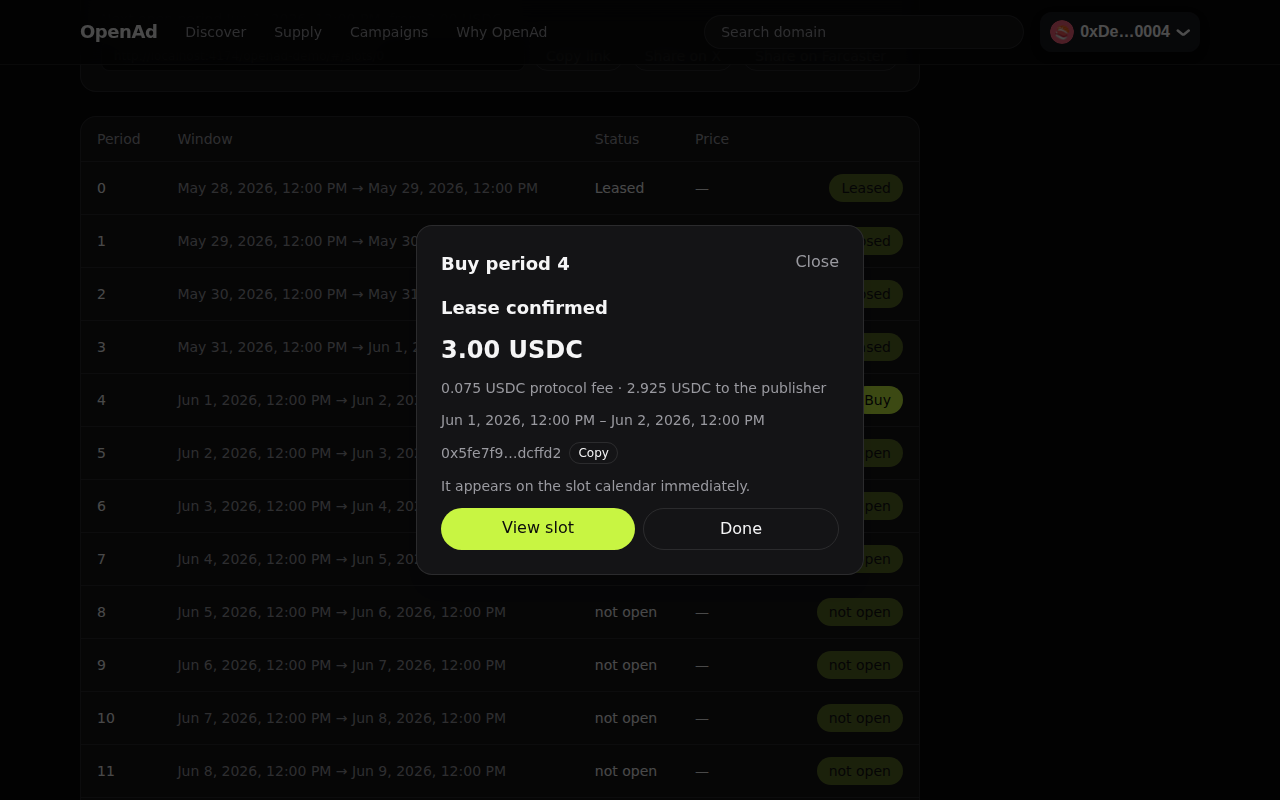
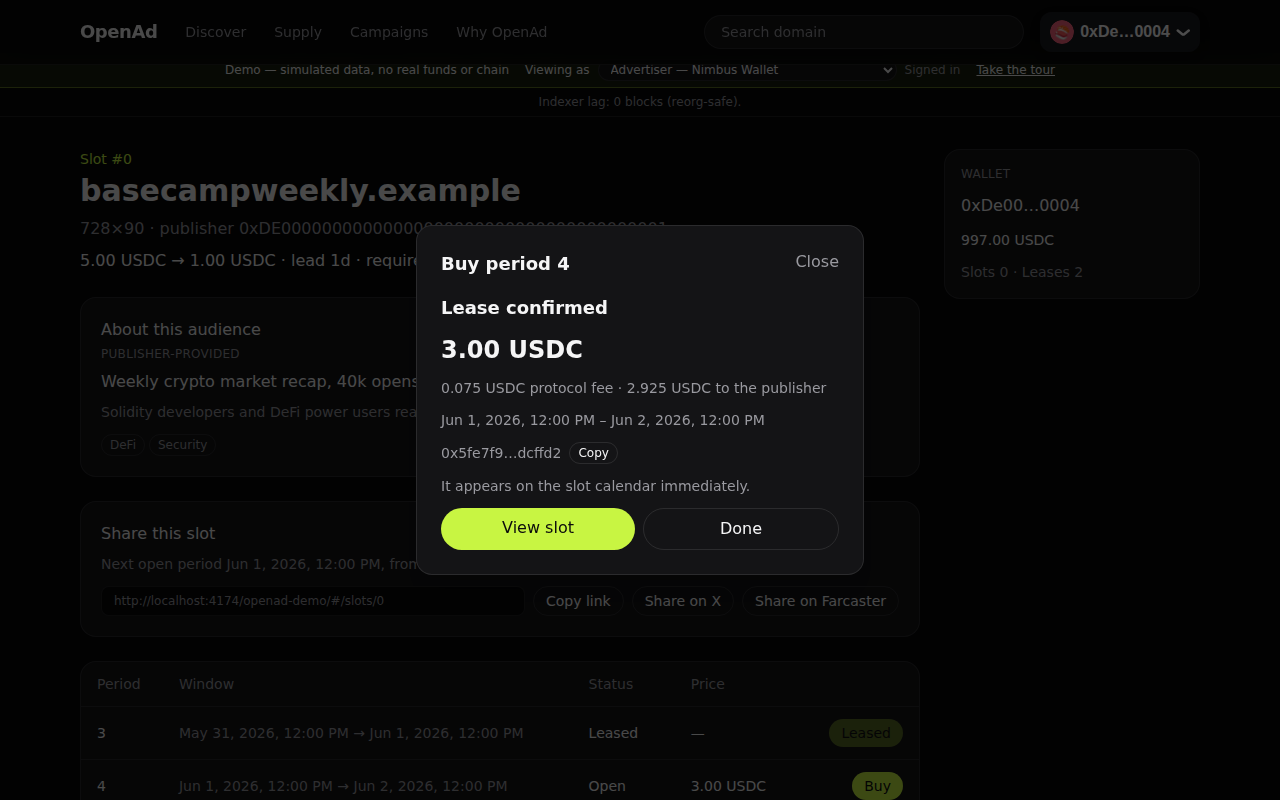
docs(launch): record #17-#19 and finish the post-merge pass
ROADMAP 6.7/6.9 cite #19, #17 and #18; README and the launch checklist
say what shipped; the runbook's migrate grants and teardown loop are
fixed; the GTM launch plan is rebased on launch actions; the capture
script finds rows by index and waits for the balance refetch and the
embed image, and the screenshots are regenerated.

Claude-Session: https://claude.ai/code/session_01Reb6XCAsVKDJU3ey2h3zGZ

diff --git a/web/src/lib/auction.test.ts b/web/src/lib/auction.test.ts
@@ -354,6 +354,12 @@ describe('periodsWindowSize', () => {
     expect(periodsWindowSize(86_400, 3600)).toBe(24);
   });
 
+  it('rounds the period count up, not down, when it does not divide evenly', () => {
+    // 88,200 / 3,600 = 24.5: ceil is 25, floor is 24. The exact-multiple case above (86,400 /
+    // 3,600 = 24.0) can't tell ceil from floor, since both round to the same integer.
+    expect(periodsWindowSize(88_200, 3600)).toBe(25);
+  });
+
   it('caps at 59, one under the list_periods API range limit (step 41)', () => {
     expect(periodsWindowSize(1_000_000, 3600)).toBe(59);
   });

diff --git a/docs/ROADMAP.md b/docs/ROADMAP.md
@@ -224,6 +224,11 @@ protocol contract changes in this phase (anything that would need one is recorde
       other 6.x item is `[x]`. (2) The demo script's talk tracks are listed as "2/5/15-minute",
       not "5-min/15-min" — the 2-minute hallway track already existed going into this step and
       was missing from the original acceptance wording; it is not a new addition here.
+      **PR #19 (2026-09-25):** Discover's state, the slot card's timing copy and the slot page's
+      period window now follow the open-ended calendar (`docs/PROTOCOL.md` §4.1) instead of
+      anchoring to the first period. Before it, every slot read "Ended" one period after its
+      first period ended, and a calendar older than 15 periods showed nothing buyable on the slot
+      page.
 - [x] **6.8 Auth hardening (SIWE binding, nonce/session hygiene).** _Done 2026-09-25._
       Pointers: ADR-0009 (2026-09-25 amendment) · `docs/threat-model.md` T15, T16 ·
       `api/src/openad/{siwe,ratelimit}.py` · `api/src/openad/services/auth.py` ·
@@ -249,7 +254,7 @@ protocol contract changes in this phase (anything that would need one is recorde
       Pointers: `api/src/openad/db/session.py` · `api/src/openad/config.py` ·
       `api/src/openad/services/media.py` · `infra/gcp/services/*.yaml` ·
       `infra/gcp/jobs/migrate.yaml` · `docs/deploy-gcp.md` ("Connection budget", §9) ·
-      ADR-0017 amendment · `docs/threat-model.md` T17 · `scripts/deploy-gcp.sh`.
+      ADR-0017 amendment · `docs/threat-model.md` T17, T18, T19 · `scripts/deploy-gcp.sh`.
       Acceptance: `Database` sizes its pool from settings (`OPENAD_DB_POOL_SIZE`,
       `OPENAD_DB_MAX_OVERFLOW`, `OPENAD_DB_POOL_TIMEOUT`, `OPENAD_DB_POOL_RECYCLE`,
       `pool_pre_ping=True`) at all four call sites (`api`, indexer, settler,
@@ -267,11 +272,15 @@ protocol contract changes in this phase (anything that would need one is recorde
       hop (not just the first URL) re-validated for scheme and, outside dev/test, for a blocked
       hostname (after stripping trailing dots) or an IP literal that is not globally routable or
       is multicast, reserved or IPv6 site-local (including legacy numeric forms and IPv4-mapped
-      IPv6); T17 added; all checks green. Outbound-fetch bounds shipped separately in the
-      outbound-fetch-bounds PR: one overall deadline on media fetches, a per-pass budget for
-      indexer verification, and a domain meta check that releases its DB connection before
-      fetching and is bounded with a per-slot cooldown — recorded as **T18**
-      (`docs/threat-model.md`).
+      IPv6); T17 added; all checks green. Outbound-fetch bounds shipped separately in **PR #17**:
+      one overall deadline on media fetches, a per-pass budget for indexer verification, and both
+      `POST /v1/creatives/{id}/verify` and the domain meta check release their pooled DB
+      connection before fetching, with both fetchers reading raw bytes under their caps
+      (`Accept-Encoding: identity`) and the meta check additionally bounded by a per-slot
+      cooldown — recorded as **T18** (`docs/threat-model.md`). **PR #18** further caps
+      `GET /v1/slots/{id}/periods` at 60 periods per request (a wider window gets a house-style
+      422 `invalid_window`) and reads its leases in one batched query instead of one per period
+      index — recorded as **T19**.
 - [ ] **6.10 Live GCP deployment (user-run).**
       Pointers: `docs/deploy-gcp.md` · `docs/business/launch-checklist.md`.
       Acceptance: a GCP project exists and the runbook (§1–§10) has been followed; the Workload
@@ -308,9 +317,15 @@ blocks a testnet/staging launch. **7.10** (the independent security audit) does 
       clicks (today it reuses the LEASE "not tracked" hint); advertiser CTR over CPC impressions
       only, not diluted by LEASE impressions; a separate "Booked (upcoming)" tile for leases not
       yet started. Pointers: `api/src/openad/services/analytics.py`, `web/src/lib/analytics.ts`.
-- [ ] **7.7 Migration and lint scope.** `compare_metadata` parity doesn't cover server defaults;
-      widen the ruff scope to include `alembic/` (`0002_cpc.py` is unformatted). Pointers:
-      `api/tests/test_migrations.py`, `api/pyproject.toml`.
+- [ ] **7.7 Migration, lint and docs-formatting scope.** `compare_metadata` parity doesn't cover
+      server defaults; widen the ruff scope to include `alembic/` (`0002_cpc.py` is unformatted);
+      CI's `prettier --check` step covers only `web/src/demo`, `e2e/demo`,
+      `web/src/features/marketing` and `web/src/app/routes.tsx`, so the root `format:check`
+      script (all of `web/`, `embed/` and `docs/`) never runs in CI, and `docs/` table alignment
+      already fails at base on `ARCHITECTURE.md` and `docs/threat-model.md`; some code comments
+      cite JIT step numbers (e.g. "step 39", "PLAN step 40") that only the archived plan's
+      step → PR map (`.cursor/jit_history/`) resolves. Pointers: `api/tests/test_migrations.py`,
+      `api/pyproject.toml`, `.github/workflows/ci.yml`, `package.json` (`format:check`).
 - [ ] **7.8 `useSiwe` in-flight race** on an account switch (real app and demo). Pointers:
       `web/src/features/auth/useSiwe.ts`.
 - [ ] **7.9 `BuyDialog` unit test** for the `BaseError.shortMessage` error branch. Pointers:
@@ -328,9 +343,10 @@ blocks a testnet/staging launch. **7.10** (the independent security audit) does 
       guard instead of placeholders; a Public-Suffix-List-aware same-site guard (multi-part
       suffixes such as `co.uk`, `web.app`); `host_of` verified on a real macOS bash 3.2.
       Pointers: `api/tests/`, `.github/workflows/deploy.yml`, `scripts/deploy-gcp.sh`.
-- [ ] **7.14 Bounded-concurrency media verification.** The outbound-fetch-bounds PR bounds each
-      fetch and each verification pass, but not how many run concurrently. Pointers:
-      `api/src/openad/indexer/runner.py`.
+- [ ] **7.14 Bounded-concurrency media verification, and a per-verify limit.** PR #17 bounds each
+      fetch and each verification pass, but not how many run concurrently; it also leaves
+      `POST /v1/creatives/{id}/verify` with no per-address or per-session limit (T18 residuals).
+      Pointers: `api/src/openad/indexer/runner.py`, `api/src/openad/routers/creatives.py`.
 - [ ] **7.15 Auth follow-ups from 6.8.** A test that percent-encoded URIs/resources are accepted;
       OpenAPI still documents FastAPI's default 422 shape for `/v1/auth/verify`; rename
       `openad.errors.InvalidRequestError`, which clashes conceptually with SQLAlchemy's own; cap
@@ -340,6 +356,17 @@ blocks a testnet/staging launch. **7.10** (the independent security audit) does 
 - [ ] **7.16 DNS TXT domain verification.** Add `dnspython` (with a resolver lifetime) so
       `_check_dns` can actually succeed, or drop the method from the docs. Pointers:
       `api/src/openad/services/offchain.py`, `docs/ARCHITECTURE.md` §3.6.
+- [ ] **7.17 Sim planner period window.** `sim/src/planner/snapshot.ts:48` lists periods 0–4
+      only, so sim activity stops after five periods; it should list from the slot's current
+      index instead, the way the web app's slot page now does (PR #19). Pointers:
+      `sim/src/planner/`.
+- [ ] **7.18 Discover "no terms" filter chip, and a defensive zero-period guard.** A slot with no
+      sale terms yet reads the new `'no terms'` state (PR #19), which has no Discover filter chip
+      — the same pre-existing gap as `'no calendar'`. Separately, `periodsWindowSize` and
+      `currentPeriodIndex` (`web/src/lib/auction.ts`) divide by `periodSeconds` with no zero
+      guard; a zero period is unreachable today (`set_calendar` and the demo reducer both require
+      `periodSeconds >= 3600`), so this is a defensive guard, not a live bug. Pointers:
+      `web/src/features/marketplace/DiscoverPage.tsx`, `web/src/lib/auction.ts`.
 
 ---
 

diff --git a/docs/business/market-fit.md b/docs/business/market-fit.md
@@ -69,13 +69,13 @@ ad-network approval gate, no third-party tracking, and on-chain proof of spend.
 
 ## Adoption blockers → ROADMAP mapping
 
-| #   | Blocker                                                                                                                        | Addressed by                                                                            | Status (2026-09-25)                                                                                                                                                    |
-| --- | ------------------------------------------------------------------------------------------------------------------------------ | --------------------------------------------------------------------------------------- | ---------------------------------------------------------------------------------------------------------------------------------------------------------------------- |
-| 1   | Nobody can see it work without running Anvil + Postgres + a wallet; no demo, landing page, or value proposition in the README. | 6.2 (demo mode + static showcase), 6.7 (README rewrite)                                 | Shipped — demo mode PR #8; README rewrite PR #11, extended in PR #TBD-36.                                                                                              |
-| 2   | Publisher onboarding ends at "mint a slot"; no copy-paste embed code, no shareable slot page, no CMS instructions.             | 6.3 (publisher growth: embed code panel, share page, guide)                             | Shipped — embed code panel and share page PR #10; slot listings and category filter PR #13.                                                                            |
-| 3   | Advertisers and publishers see no performance numbers (CTR, eCPM, spend/earnings trend) — the first question every buyer asks. | 6.4 (analytics read model + UI)                                                         | Shipped — PR #9.                                                                                                                                                       |
-| 4   | Run scripts are PowerShell-only; no production hosting config.                                                                 | 6.5 (cross-platform scripts), 6.6 (GCP deploy)                                          | Shipped — cross-platform scripts PR #5; GCP deploy artifacts PR #7 (the live deploy is user-run, ROADMAP 6.10).                                                        |
-| 5   | USDC-only with no fiat onramp.                                                                                                 | Accepted as out of scope (see below); mitigated by onramp guide links in 6.7, not code. | Mitigated, not solved — onramp guide added in PR #TBD-36 (`docs/guide/advertiser/getting-usdc-on-base.md`); the protocol is unchanged and remains USDC-only by design. |
+| #   | Blocker                                                                                                                        | Addressed by                                                                            | Status (2026-09-25)                                                                                                                                                |
+| --- | ------------------------------------------------------------------------------------------------------------------------------ | --------------------------------------------------------------------------------------- | ------------------------------------------------------------------------------------------------------------------------------------------------------------------ |
+| 1   | Nobody can see it work without running Anvil + Postgres + a wallet; no demo, landing page, or value proposition in the README. | 6.2 (demo mode + static showcase), 6.7 (README rewrite)                                 | Shipped — demo mode PR #8; README rewrite PR #11, extended in PR #16.                                                                                              |
+| 2   | Publisher onboarding ends at "mint a slot"; no copy-paste embed code, no shareable slot page, no CMS instructions.             | 6.3 (publisher growth: embed code panel, share page, guide)                             | Shipped — embed code panel and share page PR #10; slot listings and category filter PR #13.                                                                        |
+| 3   | Advertisers and publishers see no performance numbers (CTR, eCPM, spend/earnings trend) — the first question every buyer asks. | 6.4 (analytics read model + UI)                                                         | Shipped — PR #9.                                                                                                                                                   |
+| 4   | Run scripts are PowerShell-only; no production hosting config.                                                                 | 6.5 (cross-platform scripts), 6.6 (GCP deploy)                                          | Shipped — cross-platform scripts PR #5; GCP deploy artifacts PR #7 (the live deploy is user-run, ROADMAP 6.10).                                                    |
+| 5   | USDC-only with no fiat onramp.                                                                                                 | Accepted as out of scope (see below); mitigated by onramp guide links in 6.7, not code. | Mitigated, not solved — onramp guide added in PR #16 (`docs/guide/advertiser/getting-usdc-on-base.md`); the protocol is unchanged and remains USDC-only by design. |
 
 ## Earning model
 

diff --git a/docs/business/launch-checklist.md b/docs/business/launch-checklist.md
@@ -15,14 +15,19 @@ USDC-only friction (market-fit blocker 5) is mitigated with a guide link, not ne
 | Cross-platform run scripts (bash + PowerShell)                                                  | Done   | `scripts/*.sh`, `scripts/*.cmd`                                     |
 | Publisher growth: embed code panel, serve CORS fix, shareable slot page, "Advertise here" badge | Done   | PR #10                                                              |
 | Slot listings: publisher-written audience description + category filter                         | Done   | PR #13                                                              |
-| Sourcemaps off by default for the production web build                                          | Done   | PR #TBD-36 (`web/vite.config.ts`, `VITE_SOURCEMAP`)                 |
+| Auth hardening: SIWE bound to allowed origins, atomic nonce use, pruning, opt-in rate limit     | Done   | PR #15                                                              |
+| Capacity and deploy hardening: DB pool budget, Cloud Run scale caps, same-site domain guard     | Done   | PR #14                                                              |
+| Outbound-fetch bounds: overall media-fetch deadline, per-pass verify budget, per-slot cooldown  | Done   | PR #17                                                              |
+| Discover and the slot page follow the open-ended calendar, not just the first period            | Done   | PR #19                                                              |
+| Periods endpoint capped at 60 per request, leases read in one query                             | Done   | PR #18                                                              |
+| Sourcemaps off by default for the production web build                                          | Done   | PR #16 (`web/vite.config.ts`, `VITE_SOURCEMAP`)                     |
 
 ## User actions
 
 | Item                                                                                                                                                                                                                                           | Owner | Link                                                                             |
 | ---------------------------------------------------------------------------------------------------------------------------------------------------------------------------------------------------------------------------------------------- | ----- | -------------------------------------------------------------------------------- |
 | Share the demo and deck Artifacts with the intended audience                                                                                                                                                                                   | User  | above                                                                            |
-| Republish the hosted demo after PR #TBD-36 merges (it currently ships `.map` files; the sourcemap fix above removes them from the next build)                                                                                                  | Team  | https://claude.ai/artifact/AzkEcWfmUT23GCo2qkWxE7                                |
+| Republish the hosted demo after PR #16 merges (it currently ships `.map` files; the sourcemap fix above removes them from the next build)                                                                                                      | Team  | https://claude.ai/artifact/AzkEcWfmUT23GCo2qkWxE7                                |
 | Create a GCP project and follow the deploy runbook                                                                                                                                                                                             | User  | `docs/deploy-gcp.md`                                                             |
 | Set the GitHub Workload Identity Federation (WIF) secrets for CI deploy                                                                                                                                                                        | User  | `docs/deploy-gcp.md`                                                             |
 | Deploy contracts to Base Sepolia and commit the resulting `84532.json`                                                                                                                                                                         | User  | `contracts/script/deploy.py`, `contracts/deployments/`, `docs/deploy-sepolia.md` |

diff --git a/docs/ARCHITECTURE.md b/docs/ARCHITECTURE.md
@@ -262,14 +262,14 @@ present, even for an origin outside its own allowlist).
 Triggered by the indexer on `CreativeRegistered` and re-run on a schedule
 (`OPENAD_VERIFY_INTERVAL_SECONDS`, default 6h) and on demand. Each indexer pass
 (`services.media.verify_pending`) processes pending creatives up to a wall-clock budget
-(`OPENAD_VERIFY_PASS_BUDGET_SECONDS`, default 20s, ROADMAP 6.9 step 39); creatives it doesn't
+(`OPENAD_VERIFY_PASS_BUDGET_SECONDS`, default 20s, ROADMAP 6.9, PR #17); creatives it doesn't
 reach stay `pending` for the next pass (creatives are attempted in `creative_id`, i.e. FIFO,
 order), so registering a creative is permissionless but a slow or malicious `uri` can never
 block block indexing for longer than one budget plus one fetch deadline (`docs/threat-model.md`
 T18). On demand (`POST /v1/creatives/{id}/verify`) and the indexer pass both call
 `services.media.verify_creative`, which reads what the fetch needs and commits — releasing the
 pooled DB connection — before the network call, then writes the result in a later transaction
-(fix round 1, T18). Registering is permissionless, and the on-demand route lets the creative's
+(PR #17, T18). Registering is permissionless, and the on-demand route lets the creative's
 advertiser (`require_advertiser`) re-run verification at any time, whatever the creative's
 status; with the connection released first, a slow `uri` or several concurrent verifies of the
 same creative no longer hold a connection out of the pool for the fetch's duration.
@@ -289,11 +289,11 @@ same creative no longer hold a connection out of the pool for the fetch's durati
    is unwrapped first. Dev/test skips these host checks entirely so local Anvil/sim creatives at
    `http://127.0.0.1:*` still verify (ADR-0012). Enforce `OPENAD_MAX_MEDIA_BYTES` (default 2 MiB),
    a 10 s per-read timeout, and an overall `OPENAD_MEDIA_FETCH_DEADLINE_SECONDS` deadline
-   (default 30s, step 39) around connect, every hop, and the whole body — a host that trickles a
+   (default 30s, PR #17) around connect, every hop, and the whole body — a host that trickles a
    few bytes at a time ("slow-drip") never trips the per-read timeout but is still cut off
    (`failed:timeout`) once the deadline passes (T18). The request sends `Accept-Encoding:
    identity` and the body is read raw (`aiter_raw()`, bypassing httpx's own content-decoding); a
-   response declaring any other `Content-Encoding` fails closed as `failed:fetch` (fix round 1,
+   response declaring any other `Content-Encoding` fails closed as `failed:fetch` (PR #17,
    T18) instead of being decoded, so `OPENAD_MAX_MEDIA_BYTES` bounds wire bytes actually
    received, not a much larger size a compressed ("gzip-bomb") body could expand into.
 2. `keccak256(bytes) == content_hash`, else `failed:hash_mismatch`.
@@ -349,8 +349,8 @@ cooldown), then the endpoint claims a per-slot 30 s cooldown window with one ato
 let concurrent calls all see "no cooldown" and all proceed) and commits — releasing the pooled DB
 connection — before the network call runs; a call that loses the claim gets `429 rate_limited`
 with `Retry-After` instead of triggering another fetch, and the claim persists across a restart
-and is shared across api instances, since it lives in the database, not in process memory (fix
-round 1, step 39, T18). The result is written back in a further transaction guarded by the token
+and is shared across api instances, since it lives in the database, not in process memory (PR
+#17, T18). The result is written back in a further transaction guarded by the token
 read before the fetch, so a check that outlives a token that `start_domain_verification`
 re-issues mid-flight cannot mark the slot verified under the new one.
 

diff --git a/docs/deploy-gcp.md b/docs/deploy-gcp.md
@@ -245,11 +245,13 @@ printf '%s' "$(openssl rand -hex 32)" | gcloud secrets create openad-click-hmac-
 ```
 
 Grant `roles/secretmanager.secretAccessor` on `openad-database-url-<ENV>`,
-`openad-session-secret-<ENV>` and `openad-click-hmac-secret-<ENV>` to the `openad-api-<ENV>`,
-`openad-migrate-<ENV>` service accounts (and `openad-indexer-<ENV>` and `openad-settler-<ENV>`
-for the database URL only — `infra/gcp/services/settler.yaml` mounts it as
-`OPENAD_DATABASE_URL`; neither needs the session or click secrets, and the settler-key grant
-above is still the only IAM binding naming the settler service account for that secret).
+`openad-session-secret-<ENV>` and `openad-click-hmac-secret-<ENV>` to the `openad-api-<ENV>`
+service account, since `infra/gcp/services/api.yaml` is the only manifest that mounts all three.
+Grant `openad-database-url-<ENV>` only — not the session or click secrets — to
+`openad-migrate-<ENV>`, `openad-indexer-<ENV>` and `openad-settler-<ENV>` too:
+`infra/gcp/jobs/migrate.yaml` and `infra/gcp/services/{indexer,settler}.yaml` each mount only
+`OPENAD_DATABASE_URL`, and none of the three needs the session or click secrets (the settler-key
+grant above is still the only IAM binding naming the settler service account for that secret).
 
 ## 6-8. Build, migrate, deploy — the primary path: `scripts/deploy-gcp.sh`
 
@@ -395,8 +397,9 @@ fetches at the API. Viem's `createSiweMessage` (ADR-0009 amendment) rejects an I
 and any single-label host other than `localhost`, so that web-app host must be `localhost`, an
 IPv4 address, or a dotted hostname. A dotted hostname like `app.<domain>` above always satisfies
 this. The API must recognize the same host too: it has to appear in `OPENAD_CORS_ORIGINS` (and
-in `OPENAD_SIWE_ALLOWED_ORIGINS`, if that's set separately — see `.env.example`), which are
-checked against the same rule (`docs/ARCHITECTURE.md` §3.3).
+in `OPENAD_SIWE_ALLOWED_ORIGINS`, if that's set separately — see `.env.example`), which must
+follow the same rule (`docs/ARCHITECTURE.md` §3.3). The API itself does not validate its origin
+lists against this rule; setting them correctly is an operator responsibility.
 
 Domain mappings aren't available in every region (see `gcloud run domain-mappings create
 --help`, or the Cloud Run docs, for the current region list). Where they aren't, front both
@@ -575,11 +578,18 @@ cold starts) to cut cost; production should not, per this ADR's `min-instances=1
 
 ## 14. Teardown
 
+`gcloud run services delete` and `gcloud secrets delete` each take exactly one resource name, so
+loop over the names rather than listing them all on one command line:
+
 ```bash
-gcloud run services delete openad-api openad-indexer openad-settler openad-web --region=<REGION>
+for svc in openad-api openad-indexer openad-settler openad-web openad-web-demo; do
+  gcloud run services delete "$svc" --region=<REGION>
+done
 gcloud run jobs delete openad-migrate --region=<REGION>
 gcloud sql instances delete openad-<ENV>
 gcloud storage rm --recursive gs://openad-media-<ENV>
-gcloud secrets delete openad-database-url-<ENV> openad-settler-key-<ENV> \
-  openad-session-secret-<ENV> openad-click-hmac-secret-<ENV>
+for secret in openad-database-url-<ENV> openad-settler-key-<ENV> \
+  openad-session-secret-<ENV> openad-click-hmac-secret-<ENV>; do
+  gcloud secrets delete "$secret"
+done
 ```

diff --git a/docs/business/pitch-deck.md b/docs/business/pitch-deck.md
@@ -109,22 +109,27 @@ customer names, quotes, or traction are claimed — the deck is honest about cur
 
 ## Slide 10 — Go-to-market
 
-- Beachhead: direct outreach to crypto-native publishers and advertisers, hackathon
-  sponsorships, Base ecosystem channels, open-source maintainer communities.
-- A GitHub README badge and shareable slot pages turn every activated publisher into a
-  distribution surface for the next one.
-- 0–30/30–60/60–90 day plan in `docs/business/gtm-marketing.md`.
+- **"Every publisher recruits the next one."**
+- **Days 0–30 — Go live:** Launch on Base Sepolia and Google Cloud. Hand-recruit pilot publishers
+  with the demo and the embed tag.
+- **Days 30–60 — Prove it:** Pilots' CTR, eCPM and spend from the built-in dashboards go into
+  advertiser outreach. First hackathon sponsorship.
+- **Days 60–90 — Scale it:** Audit, then Base mainnet. Grant applications and direct outreach
+  with this deck.
+- Channels: Base ecosystem, Farcaster and X, newsletter-operator communities, open-source
+  maintainers, and an "Advertise here" README badge.
 
 > Speaker notes: Keep this to channels and mechanics — the detailed plan lives in the linked doc,
-> don't read the whole GTM doc from the slide.
+> don't read the whole GTM doc from the slide. The product work behind each phase is already
+> built; what remains is the launch itself, pilots, and the audit before mainnet.
 
 ## Slide 11 — Traction and roadmap
 
 - **Built:** the protocol and off-chain stack, tested end to end on local Anvil; a zero-friction
   demo mode; publisher growth tooling (embed code, shareable slot page, slot listings with
   category filters); analytics (CTR, eCPM, spend/earnings); cross-platform run scripts; and
-  production deploy artifacts (Cloud Run configs, migration job, nginx image) plus auth and
-  capacity hardening.
+  production deploy artifacts (Cloud Run configs, migration job, nginx image) plus auth, capacity
+  and request-bound hardening.
 - **Pending:** the live GCP deployment (ROADMAP 6.10, a user-run step), a Base Sepolia contract
   deployment, and an independent security audit before any mainnet deploy.
 - Honest framing: this is a pre-launch, testnet-ready product — no customers, users, or traction

diff --git a/docs/guide/advertiser/getting-usdc-on-base.md b/docs/guide/advertiser/getting-usdc-on-base.md
@@ -20,12 +20,13 @@ any provider's fees, speed, or availability. Compare providers yourself before u
 
 - **Check the network.** Select **Base** as the destination network in the sending app. Sending
   to the wrong network can lose funds — OpenAd cannot recover them.
-- **Check the token.** OpenAd uses native USDC on Base, and the buy flow is a single permit
-  signature (EIP-2612) — there is no separate token-approval step. No OpenAd screen shows you the
-  USDC contract address. Instead, compare the USDC token address your own wallet shows (in its
-  token or balance view) — and, if your wallet displays it, the `verifyingContract` field in the
-  permit signature request it asks you to sign when buying — against the address Circle publishes
-  for Base. Do not assume a token is genuine native USDC just because it is labelled "USDC".
+- **Check the token.** OpenAd uses native USDC on Base, and the buy flow is one permit signature
+  (EIP-2612) plus one transaction, with no separate approval transaction. No OpenAd screen shows
+  you the USDC contract address. Instead, compare the USDC token address your own wallet shows
+  (in its token or balance view) — and, if your wallet displays it, the `verifyingContract` field
+  in the permit signature request it asks you to sign when buying — against the address Circle
+  publishes for Base. Do not assume a token is genuine native USDC just because it is labelled
+  "USDC".
 - **Keep some ETH on Base too.** Buying a period pays gas in ETH on Base, separate from the USDC
   price. Keep a small amount of ETH in the same wallet (no specific amount is given here — it
   depends on current network conditions).

diff --git a/docs/qa/scorecard.md b/docs/qa/scorecard.md
@@ -60,12 +60,12 @@ run with `npm run test:demo -w e2e`:
   API/chain origin is blocked with `DemoNetworkError` — a rejected promise for `fetch`, a
   synchronous throw for `XMLHttpRequest.open`, `new WebSocket()`, `new EventSource()` and
   `navigator.sendBeacon()`.
-- Separately, every demo Playwright test runs under an `auto: true` `guard` fixture
-  (`flows.spec.ts`) that fails the test if, by the time it finishes, the page made any
-  off-origin request, opened a WebSocket, logged a console error (including a `DemoNetworkError`
-  message) or an uncaught page error, or received an HTTP response ≥400 — the suite's own,
-  end-to-end proof that demo mode never reached a real RPC or API, on top of the guard's unit
-  coverage above.
+- Separately, each demo spec file (`flows.spec.ts` and `growth.spec.ts`) defines its own
+  `auto: true` `guard` fixture that fails the test if, by the time it finishes, the page made any
+  off-origin request, opened a WebSocket, or logged a console error (including a
+  `DemoNetworkError` message) or an uncaught page error. Only `flows.spec.ts`'s guard also fails
+  on an HTTP response ≥400. Together these are the suite's own, end-to-end proof that demo mode
+  never reached a real RPC or API, on top of the guard's unit coverage above.
 - An exact-balance assertion in the test body of "advertiser: discover → slot → buy a Dutch
   period with permit → lease on dashboard" (`flows.spec.ts`, after calling its `buyFirstPeriod`
   helper): the wallet balance is polled and must equal the pre-buy balance minus the exact quoted

diff --git a/docs/business/gtm-marketing.md b/docs/business/gtm-marketing.md
@@ -38,15 +38,15 @@ never touches user funds.
 
 ## Launch plan
 
-- **Days 0–30:** ship the demo mode and showcase (6.2), publish `docs/business/*`, recruit a
-  small number of pilot publishers from the beachhead ICP manually (direct outreach, not paid
-  acquisition), stand up the embed-code and share-page flow (6.3) so pilots can go live without
-  engineering help.
-- **Days 30–60:** ship analytics (6.4) so pilots can see CTR/eCPM/spend trend; use those numbers
-  in outreach to advertisers; run the first hackathon sponsorship pilot.
-- **Days 60–90:** cross-platform scripts and production deploy (6.5, 6.6) so external
-  contributors and pilots can self-host or use a hosted demo/production instance; publish the
-  pitch deck and demo script (6.7) for direct outreach and grant applications.
+The product work behind each phase below is already built (6.2–6.9); what remains is the launch
+itself, the pilots, and the audit before mainnet.
+
+- **Days 0–30 — Go live:** launch on Base Sepolia and Google Cloud (6.10), and hand-recruit pilot
+  publishers with the demo and the embed tag.
+- **Days 30–60 — Prove it:** pilots' CTR, eCPM and spend from the built-in dashboards go into
+  advertiser outreach, alongside the first hackathon sponsorship.
+- **Days 60–90 — Scale it:** the independent audit (7.10), then Base mainnet; grant applications
+  and direct outreach with the deck.
 
 ## Cold-start tactics
 

diff --git a/README.md b/README.md
@@ -147,7 +147,9 @@ Start at [`docs/README.md`](docs/README.md). AI agents and new contributors: rea
 - **Security and capacity hardening** (ROADMAP 6.8/6.9) — SIWE sign-in bound to the site's own
   allowed origins, one-time login nonces consumed atomically, a documented Cloud SQL connection
   budget with per-service scale caps, and every media-fetch redirect hop re-validated
-  (`docs/threat-model.md` T17); outbound-fetch time limits ship separately (ROADMAP 6.9, T18).
+  (`docs/threat-model.md` T17); outbound fetches carry an overall deadline and hold no database
+  connection while they run (PR #17, T18); the periods endpoint caps its window at 60 periods per
+  request (PR #18, T19).
 - **Deploy artifacts** — Cloud Run configs, a migration job, and an nginx web image for GCP
   (`docs/deploy-gcp.md`); the live deploy itself is a user-run step (ROADMAP 6.10).
 
